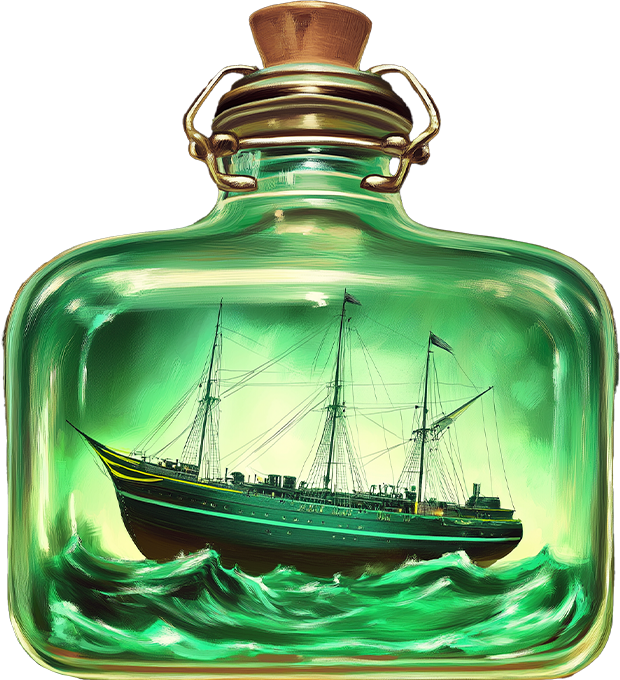
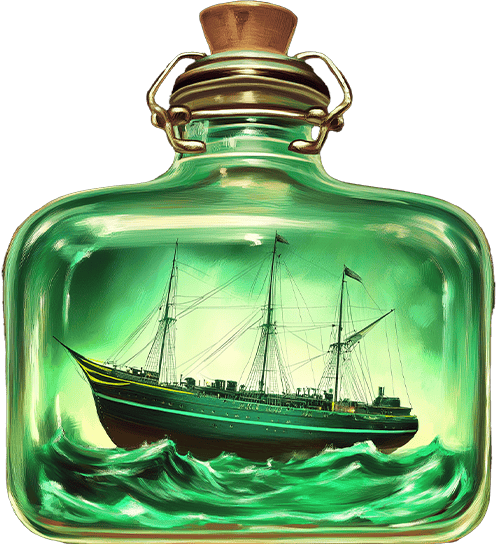
Updated typography. Started on the Resume section.

diff --git a/src/components/sections/Resume/Resume.jsx b/src/components/sections/Resume/Resume.jsx
@@ -6,19 +6,10 @@ import "./styles.scss";
 export default function Resume() {
   return (
     <section className="resume">
-      <div className="container resume__container">
-        <Wallpaper />
-      </div>
-      <div className="layout-test-specs">
-        Résumé
-        <br />
-        1440 x 1080 (4:3 or Arbitrary)
-        <br />
-        Kajabi (~12y), Hooky (~6y), Studio318 (~2y)
-        <br />
-        Gravestones for the companies?
-        <br />
-        One at the bottom that says "Childlike Wonder 1981-"?
+      <Wallpaper />
+      <div className="overlay resume__overlay" />
+      <div className="about__content">
+        <p className="heading--1">Work History</p>
       </div>
       <Separator />
     </section>

diff --git a/src/components/sections/About/styles.scss b/src/components/sections/About/styles.scss
@@ -7,9 +7,7 @@
   flex-direction: column;
   align-items: center;
   justify-content: center;
-  border-radius: 8px;
   margin: 0 auto;
-  color: #ffffff;
 }
 
 .about__content {
@@ -19,13 +17,13 @@
   align-items: center;
   justify-content: center;
   padding: 40px 24px;
-  gap: 60px;
+  gap: 30px;
 }
 
 .about__image {
   position: relative;
-  width: 310px;
-  height: 340px;
+  width: 155px;
+  height: 170px;
   filter: drop-shadow(0 6px 24px rgb(#2ee554, 0.5));
   transform: rotate(-10deg);
 }
@@ -54,9 +52,15 @@
   .about__content {
     flex-direction: row;
     padding: 100px 30px;
+    gap: 60px;
   }
 
   .about__text {
     gap: 18px;
+  }
+
+  .about__image {
+    width: 248px;
+    height: 272px;
   }
 }

diff --git a/src/assets/stylesheets/base/typography.scss b/src/assets/stylesheets/base/typography.scss
@@ -3,14 +3,21 @@ h2,
 h3,
 h4,
 h5,
-h6 {
+h6,
+.heading--1,
+.heading--2,
+.heading--3,
+.heading--4,
+.heading--5,
+.heading--6 {
   margin: 0;
+  color: #ffffff;
   font-family: "Benguiat Bold Condensed BT", sans-serif;
-  line-height: 0.9;
+  line-height: 1.1;
 }
 
-h1 {
-  line-height: 1.1;
+h1,
+.heading--1 {
   transition: line-height 0.3s ease-in-out;
 
   @include fluid-type(600px, 1200px, 32px, 64px);
@@ -25,7 +32,18 @@ p {
 }
 
 @media (width >= 768px) {
-  h1 {
+  h1,
+  h2,
+  h3,
+  h4,
+  h5,
+  h6,
+  .heading--1,
+  .heading--2,
+  .heading--3,
+  .heading--4,
+  .heading--5,
+  .heading--6 {
     line-height: 0.9;
   }
 }

diff --git a/src/components/sections/Resume/styles.scss b/src/components/sections/Resume/styles.scss
@@ -1,14 +1,24 @@
 .resume {
   position: relative;
   display: flex;
-  height: 1080px;
+  max-width: 1440px;
   flex-direction: column;
   align-items: center;
   justify-content: center;
-  border-radius: 8px;
+  margin: 0 auto;
   box-shadow: 0 2px 10px rgb(0 0 0 / 0.1);
 }
 
-.resume__container {
-  padding: 0;
+.resume__content {
+  position: relative;
+  display: flex;
+  flex-direction: column;
+  align-items: center;
+  justify-content: center;
+  padding: 40px 24px;
+  gap: 30px;
+}
+
+.resume__overlay {
+  background: linear-gradient(to top, black, transparent 50%);
 }

diff --git a/src/components/sections/About/About.jsx b/src/components/sections/About/About.jsx
@@ -12,9 +12,9 @@ export default function About() {
       <div className="about__content">
         <img className="about__image" src={imageShip} alt="Ship" />
         <div className="about__text">
-          <h1 className="about__title">
+          <p className="heading--1 about__title">
             Marvel at feats of spectacular ingenuity.
-          </h1>
+          </p>
           <div className="about__description">
             <p>
               I am a Frontend Developer with a passion for creating
